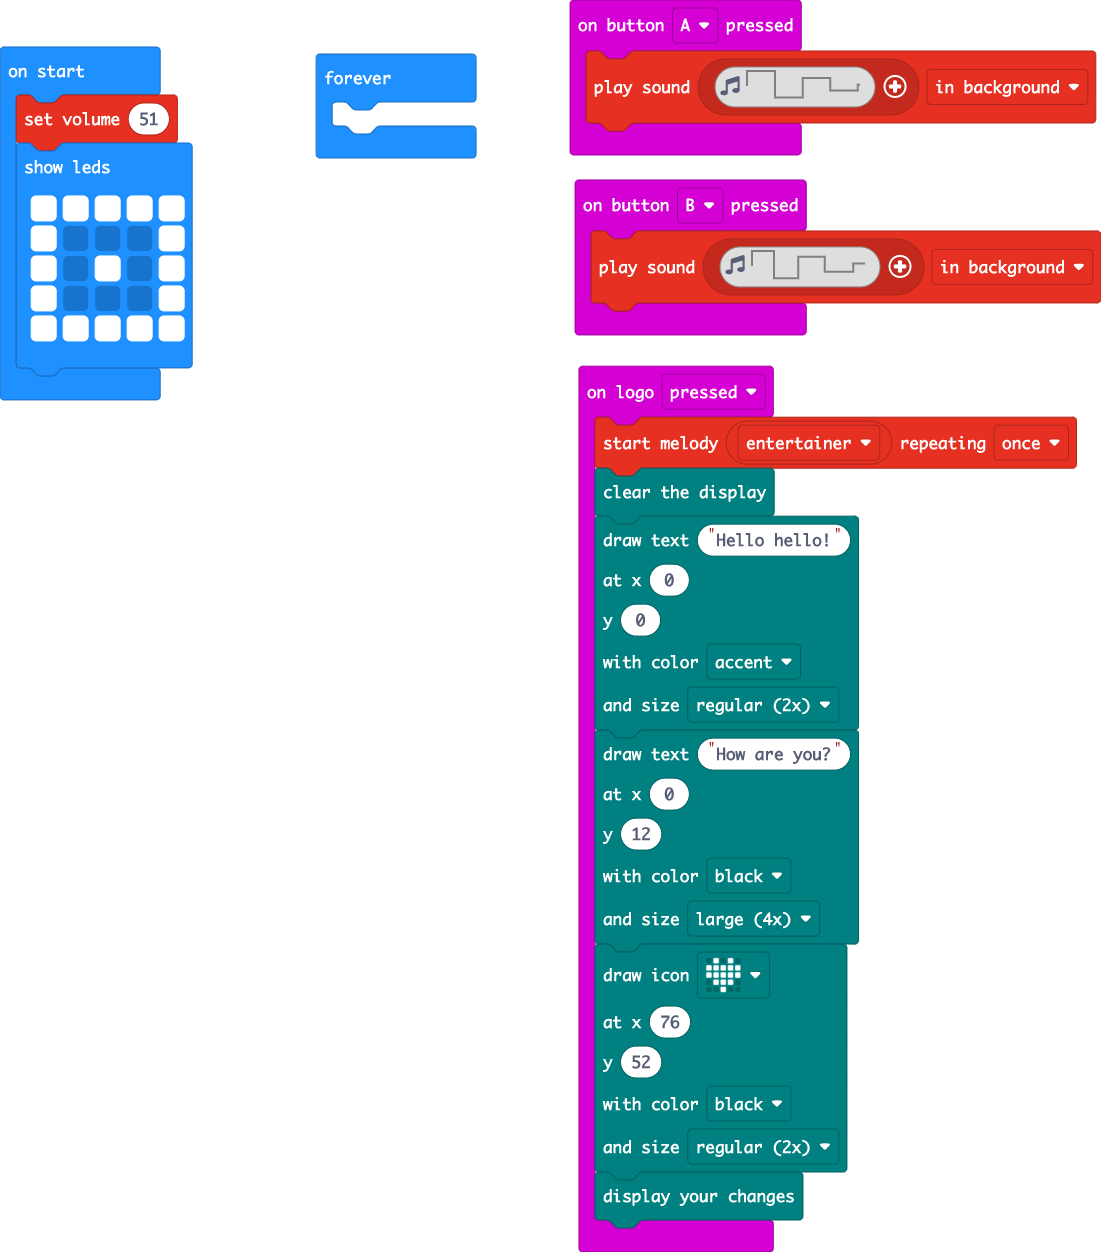
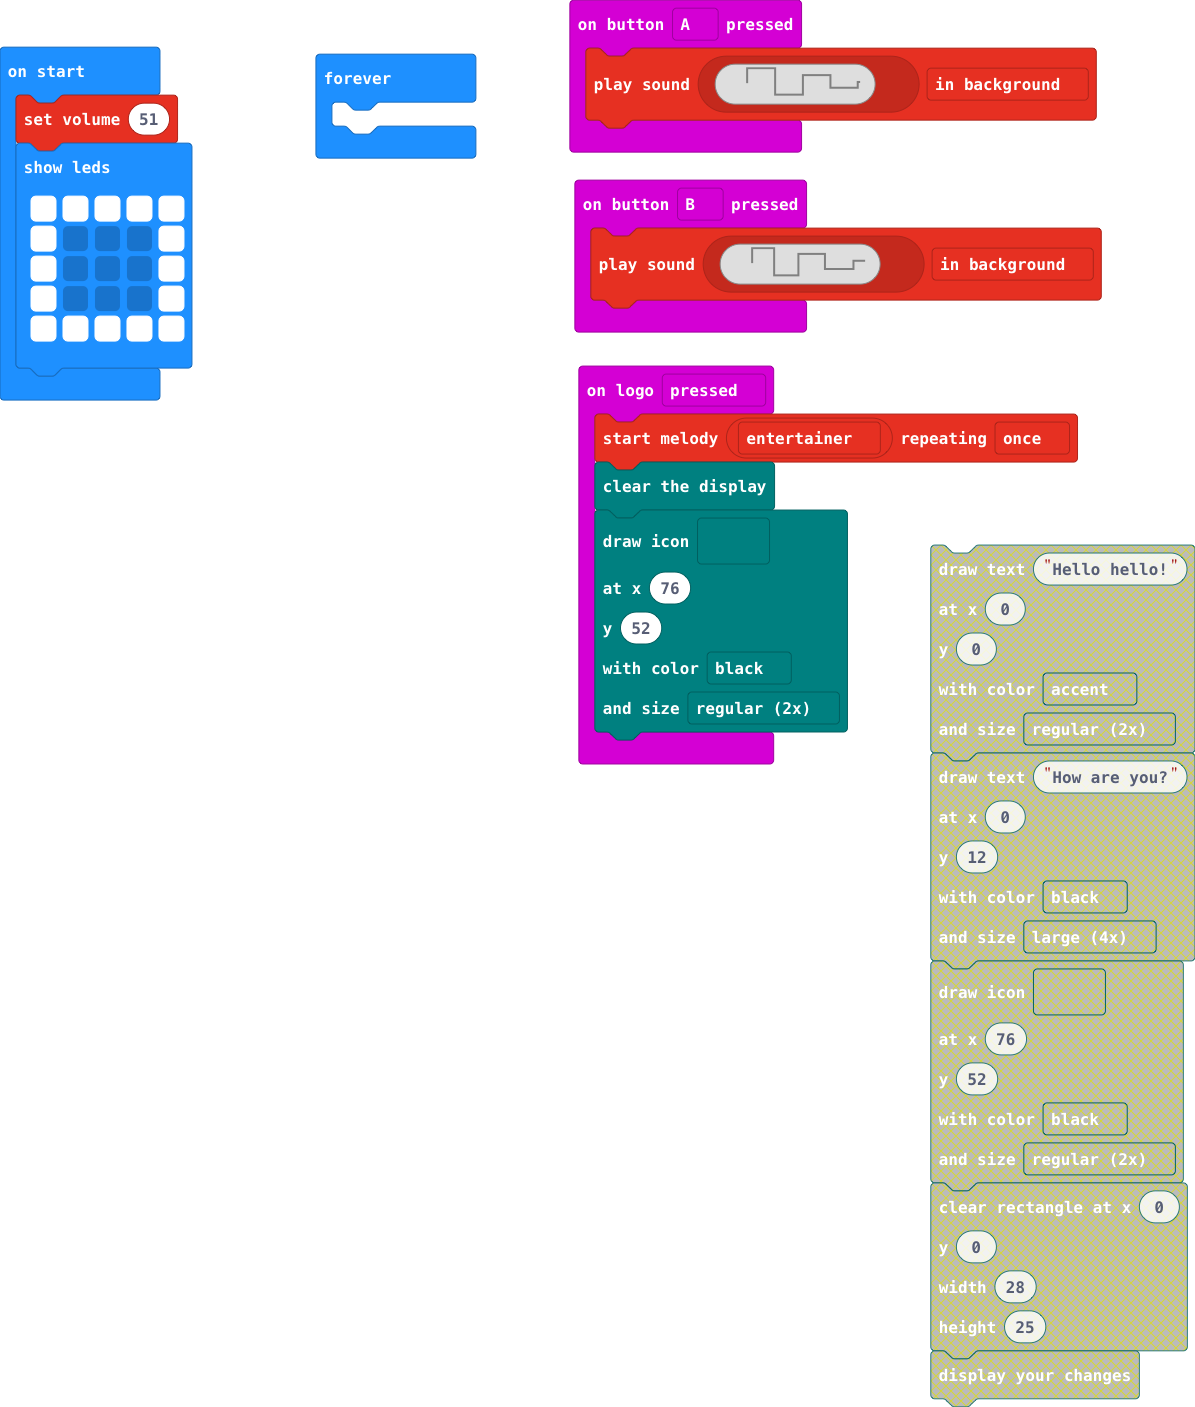
Trying out iPad

diff --git a/main.ts b/main.ts
@@ -7,34 +7,19 @@ input.onButtonPressed(Button.B, function () {
 input.onLogoEvent(TouchButtonEvent.Pressed, function () {
     music.startMelody(music.builtInMelody(Melodies.Entertainer), MelodyOptions.Once)
     inkybit.clear()
-    inkybit.drawText(
-    "Hello hello!",
-    0,
-    0,
-    inkybit.Color.Accent,
-    inkybit.TextSize.Regular
-    )
-    inkybit.drawText(
-    "How are you?",
-    0,
-    12,
-    inkybit.Color.Black,
-    inkybit.TextSize.Large
-    )
     inkybit.drawIcon(
-    IconNames.Heart,
+    IconNames.Giraffe,
     76,
     52,
     inkybit.Color.Black,
     inkybit.TextSize.Regular
     )
-    inkybit.show()
 })
 music.setVolume(51)
 basic.showLeds(`
     # # # # #
     # . . . #
-    # . # . #
+    # . . . #
     # . . . #
     # # # # #
     `)
